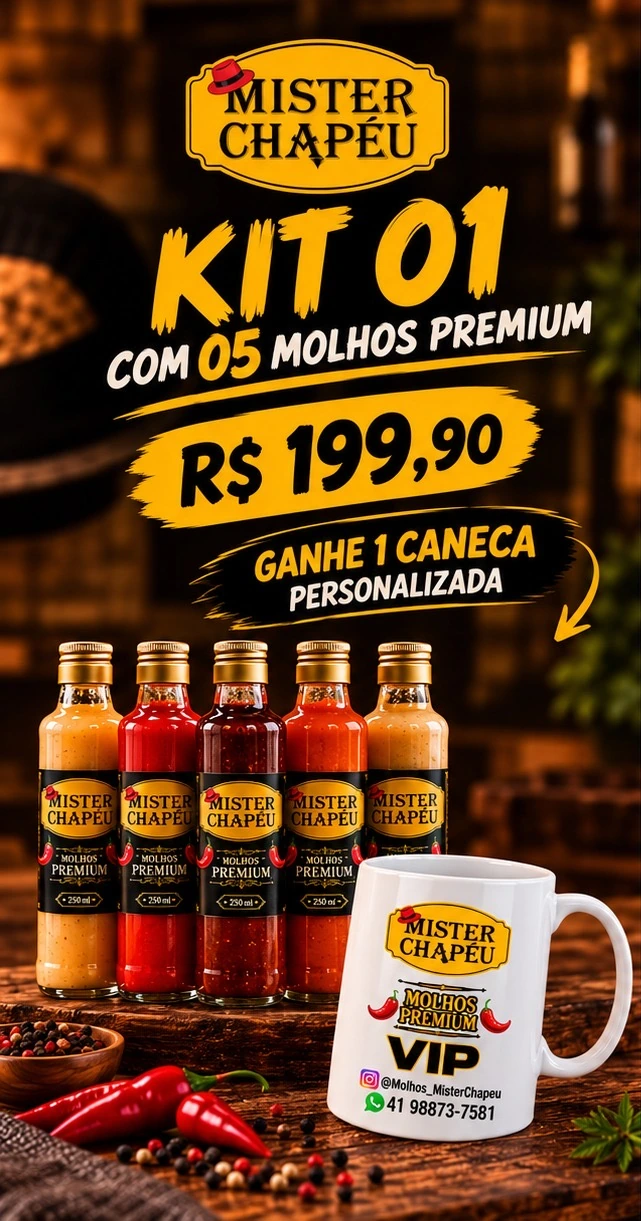
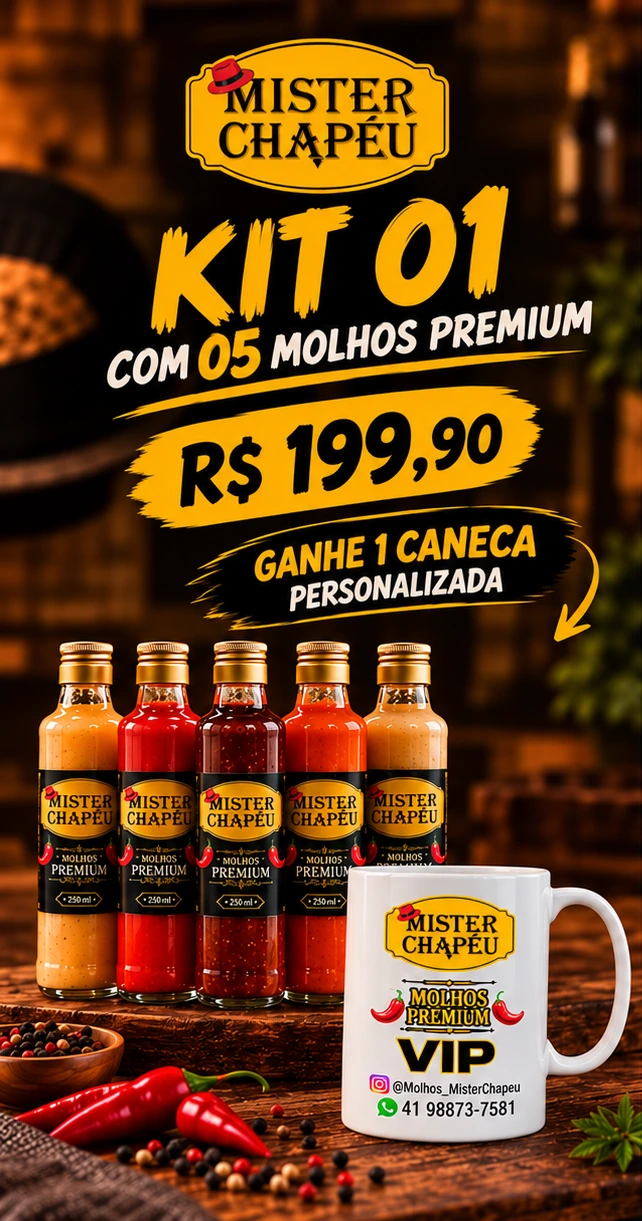
Kits: novas artes
Claude-Session: https://claude.ai/code/session_01DnBWBgsePsvxZ6X6jFEzcH

diff --git a/index.html b/index.html
@@ -170,7 +170,7 @@
         <div class="kits">
           <article class="kit-card reveal">
             <figure class="kit-card__art">
-              <img src="assets/img/kit-01.webp" alt="Kit 01 Molhos Premium por R$ 199,90: cinco garrafas Mister Chapéu e uma caneca personalizada VIP de brinde" width="641" height="1221" loading="lazy" decoding="async">
+              <img src="assets/img/kit-01.webp" alt="Kit 01 Molhos Premium por R$ 199,90: cinco garrafas Mister Chapéu e uma caneca personalizada VIP de brinde" width="642" height="1221" loading="lazy" decoding="async">
             </figure>
             <div class="kit-card__body">
               <p class="kit-card__tag">Brinde: caneca personalizada</p>
@@ -186,7 +186,7 @@
 
           <article class="kit-card kit-card--feat reveal">
             <figure class="kit-card__art">
-              <img src="assets/img/kit-02.webp" alt="Kit 02 Molhos Premium por R$ 249,90: cinco garrafas, um pote Mister Chapéu e um copo térmico personalizado VIP de brinde" width="641" height="1221" loading="lazy" decoding="async">
+              <img src="assets/img/kit-02.webp" alt="Kit 02 Molhos Premium por R$ 249,90: cinco garrafas, um pote Mister Chapéu e um copo térmico personalizado VIP de brinde" width="642" height="1221" loading="lazy" decoding="async">
             </figure>
             <div class="kit-card__body">
               <p class="kit-card__tag">Brinde: copo personalizado</p>
